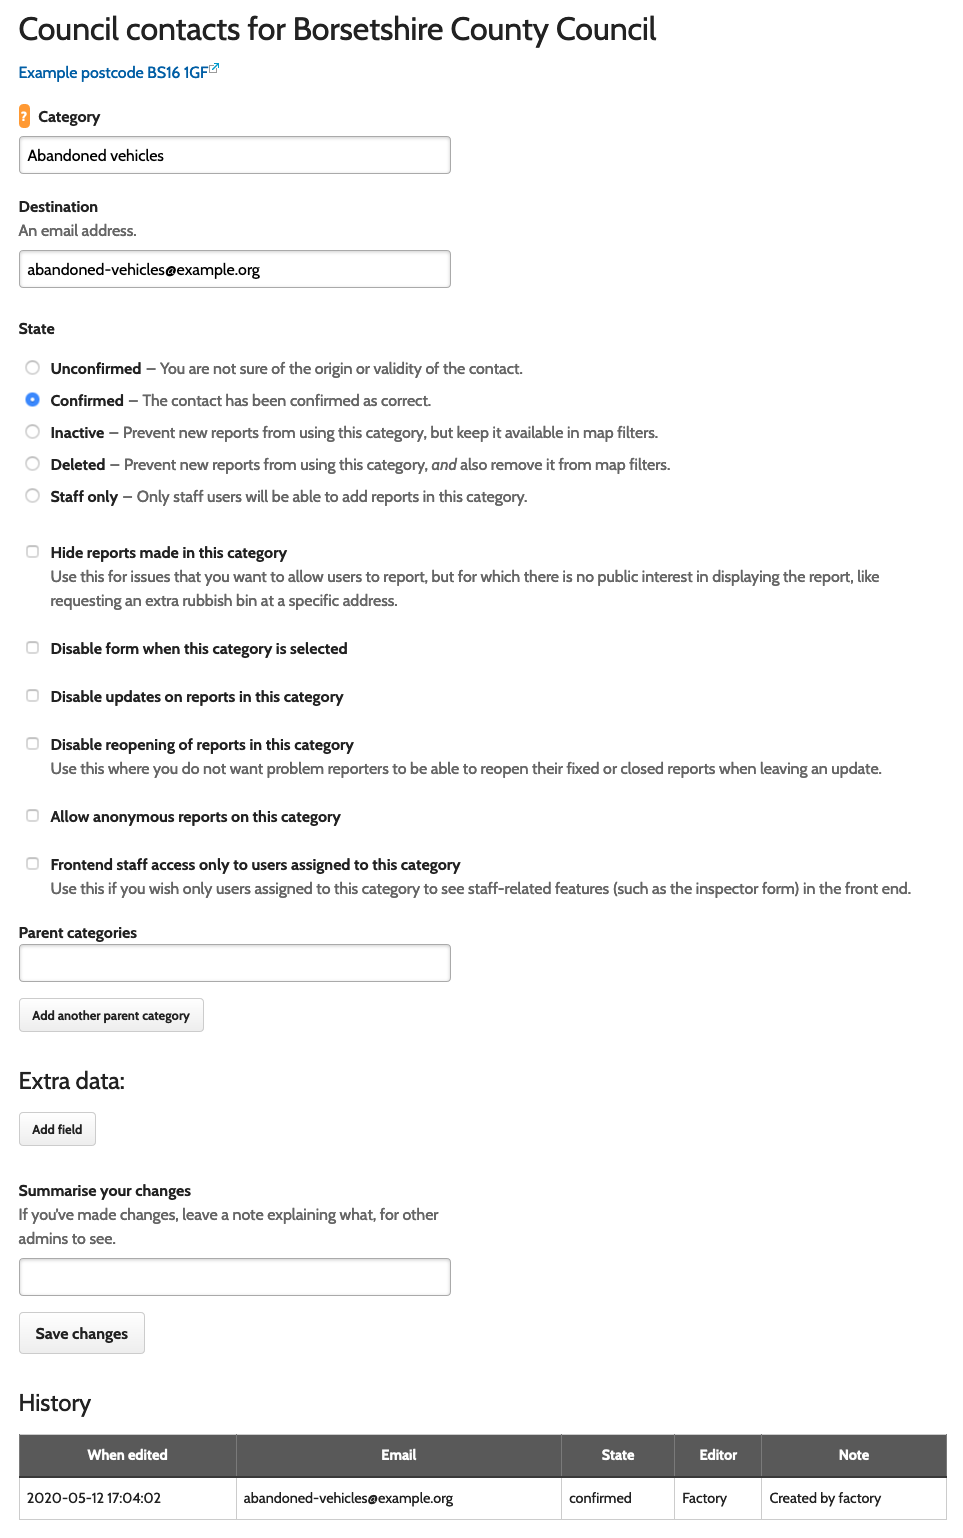
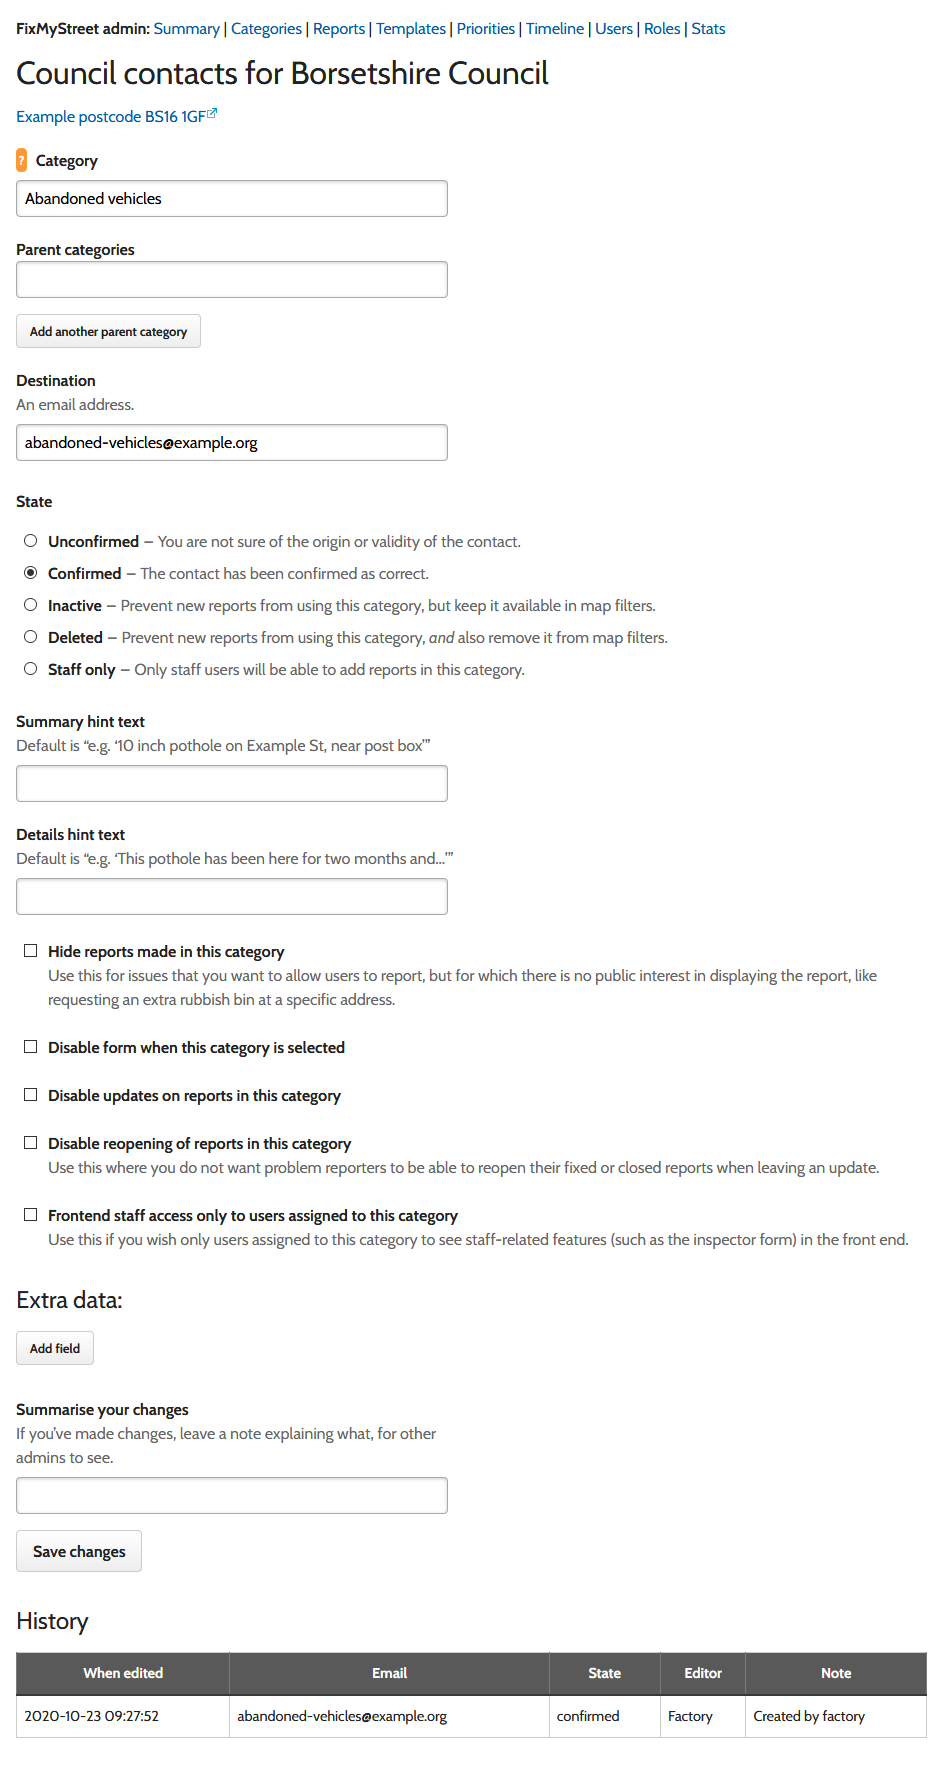
Enable per-category hint customisation.

diff --git a/web/cobrands/fixmystreet/fixmystreet.js b/web/cobrands/fixmystreet/fixmystreet.js
@@ -409,6 +409,18 @@ $.extend(fixmystreet.set_up, {
   category_change: function() {
     // Deal with changes to report category.
 
+    function text_update(id, str) {
+        var $id = $(id);
+        if (!$id.data('original')) {
+            $id.data('original', $id.text());
+        }
+        if (str) {
+            $id.text(str);
+        } else {
+            $id.text($id.data('original'));
+        }
+    }
+
     // On the new report form, does this by asking for details from the server.
     // Delegation is necessary because #form_category may be replaced during the lifetime of the page
     $("#problem_form").on("change.category", "select#form_category", function(){
@@ -423,10 +435,10 @@ $.extend(fixmystreet.set_up, {
         }
 
         var category = $(this).val(),
-            data = fixmystreet.reporting_data.by_category[category],
+            data = fixmystreet.reporting_data.by_category[category] || {},
             $category_meta = $('#category_meta');
 
-        if (data) {
+        if (!$.isEmptyObject(data)) {
             fixmystreet.bodies = data.bodies || [];
         } else {
             fixmystreet.bodies = fixmystreet.reporting_data.bodies || [];
@@ -435,13 +447,13 @@ $.extend(fixmystreet.set_up, {
             fixmystreet.body_overrides.clear();
         }
 
-        if (data && data.councils_text) {
+        if (data.councils_text) {
             fixmystreet.update_councils_text(data);
         } else {
             // Use the original returned texts
             fixmystreet.update_councils_text(fixmystreet.reporting_data);
         }
-        if (data && data.category_extra) {
+        if (data.category_extra) {
             if ( $category_meta.length ) {
                 $category_meta.replaceWith( data.category_extra );
                 var $new_category_meta = $('#category_meta');
@@ -455,7 +467,7 @@ $.extend(fixmystreet.set_up, {
         } else {
             $category_meta.empty();
         }
-        if (data && data.non_public) {
+        if (data.non_public) {
             $(".js-hide-if-private-category").hide();
             $(".js-hide-if-public-category").removeClass("hidden-js").show();
             $('#form_non_public').prop('checked', true).prop('disabled', true);
@@ -464,13 +476,16 @@ $.extend(fixmystreet.set_up, {
             $(".js-hide-if-public-category").hide();
             $('#form_non_public').prop('checked', false).prop('disabled', false);
         }
-        if (data && data.allow_anonymous) {
+        if (data.allow_anonymous) {
             $('.js-show-if-anonymous').removeClass('hidden-js');
         } else {
             $('.js-show-if-anonymous').addClass('hidden-js');
         }
 
-        if (fixmystreet.message_controller && data && data.disable_form && data.disable_form.questions) {
+        text_update('#title-hint', data.title_hint);
+        text_update('#detail-hint', data.detail_hint);
+
+        if (fixmystreet.message_controller && data.disable_form && data.disable_form.questions) {
             $.each(data.disable_form.questions, function(_, question) {
                 if (question.message && question.code) {
                     $('#form_' + question.code).on('change.category', function() {

diff --git a/templates/web/base/admin/bodies/contact-form.html b/templates/web/base/admin/bodies/contact-form.html
@@ -66,6 +66,18 @@
         </div>
     </fieldset>
 
+    [% TRY %][% PROCESS 'report/new/_form_labels.html' %][% CATCH file %][% END %]
+    <label for="title-hint">[% loc('Summary hint text') %]</label>
+    <p class="form-hint" id="title-hint-hint">
+        Default is “[% form_title_placeholder OR loc('e.g. ‘10 inch pothole on Example St, near post box’') %]”
+    </p>
+    <input type="text" class="form-control" id="title-hint" aria-describedby="title-hint-hint" name="title_hint" size="30" value="[% contact.get_extra_metadata('title_hint') %]">
+    <label for="detail-hint">[% loc('Details hint text') %]</label>
+    <p class="form-hint" id="detail-hint-hint">
+        Default is “[% form_detail_placeholder.defined ? form_detail_placeholder : loc('e.g. ‘This pothole has been here for two months and…’') %]”
+    </p>
+    <input type="text" class="form-control" id="detail-hint" aria-describedby="detail-hint-hint" name="detail_hint" size="30" value="[% contact.get_extra_metadata('detail_hint') %]">
+
     <p class="form-check">
         <input type="checkbox" name="non_public" value="1" id="non_public" [% ' checked' IF contact.non_public %]>
         <label for="non_public">[% loc('Hide reports made in this category') %]</label>

diff --git a/templates/web/base/report/new/form_title.html b/templates/web/base/report/new/form_title.html
@@ -1,7 +1,7 @@
 [% DEFAULT form_title = loc('Summarise the problem') %]
 [% DEFAULT form_title_placeholder = loc('e.g. ‘10 inch pothole on Example St, near post box’') %]
 <label for="form_title">[% form_title %]</label>
-<p class="form-hint" id="title-hint">[% form_title_placeholder %]</p>
+<p class="form-hint" id="title-hint">[% contact_title_hint OR form_title_placeholder %]</p>
 [% IF field_errors.title %]
     <p class='form-error'>[% field_errors.title %]</p>
 [% END %]

diff --git a/templates/web/base/report/new/form_report.html b/templates/web/base/report/new/form_report.html
@@ -70,7 +70,9 @@
     [% SET form_detail_placeholder = loc('e.g. ‘This pothole has been here for two months and…’') %]
 [% END %]
 
-[% IF form_detail_placeholder %]
+[% IF contact_detail_hint %]
+    <p class="form-hint" id="detail-hint">[% contact_detail_hint %]</p>
+[% ELSIF form_detail_placeholder %]
     <p class="form-hint" id="detail-hint">[% form_detail_placeholder %]</p>
 [% END %]
 

diff --git a/docs/_includes/admin-tasks-content.md b/docs/_includes/admin-tasks-content.md
@@ -643,7 +643,9 @@ You can edit categories at any time by clicking on their title within the table 
 Categories page.
 
 From here, you can change the email address that the reports in this category are routed to,
-or any of the other options for the category.
+or any of the other options for the category, such as the hint text shown to the user for
+this category, whether reporting should be disabled when this category is selected, or
+whether updates should be disabled on reports in this category.
 
 </div>
 

diff --git a/CHANGELOG.md b/CHANGELOG.md
@@ -1,6 +1,8 @@
 ## Releases
 
 * Unreleased
+    - Admin improvements:
+        - Enable per-category hint customisation.
 
 * v3.1 (16th November 2020)
     - Security:
